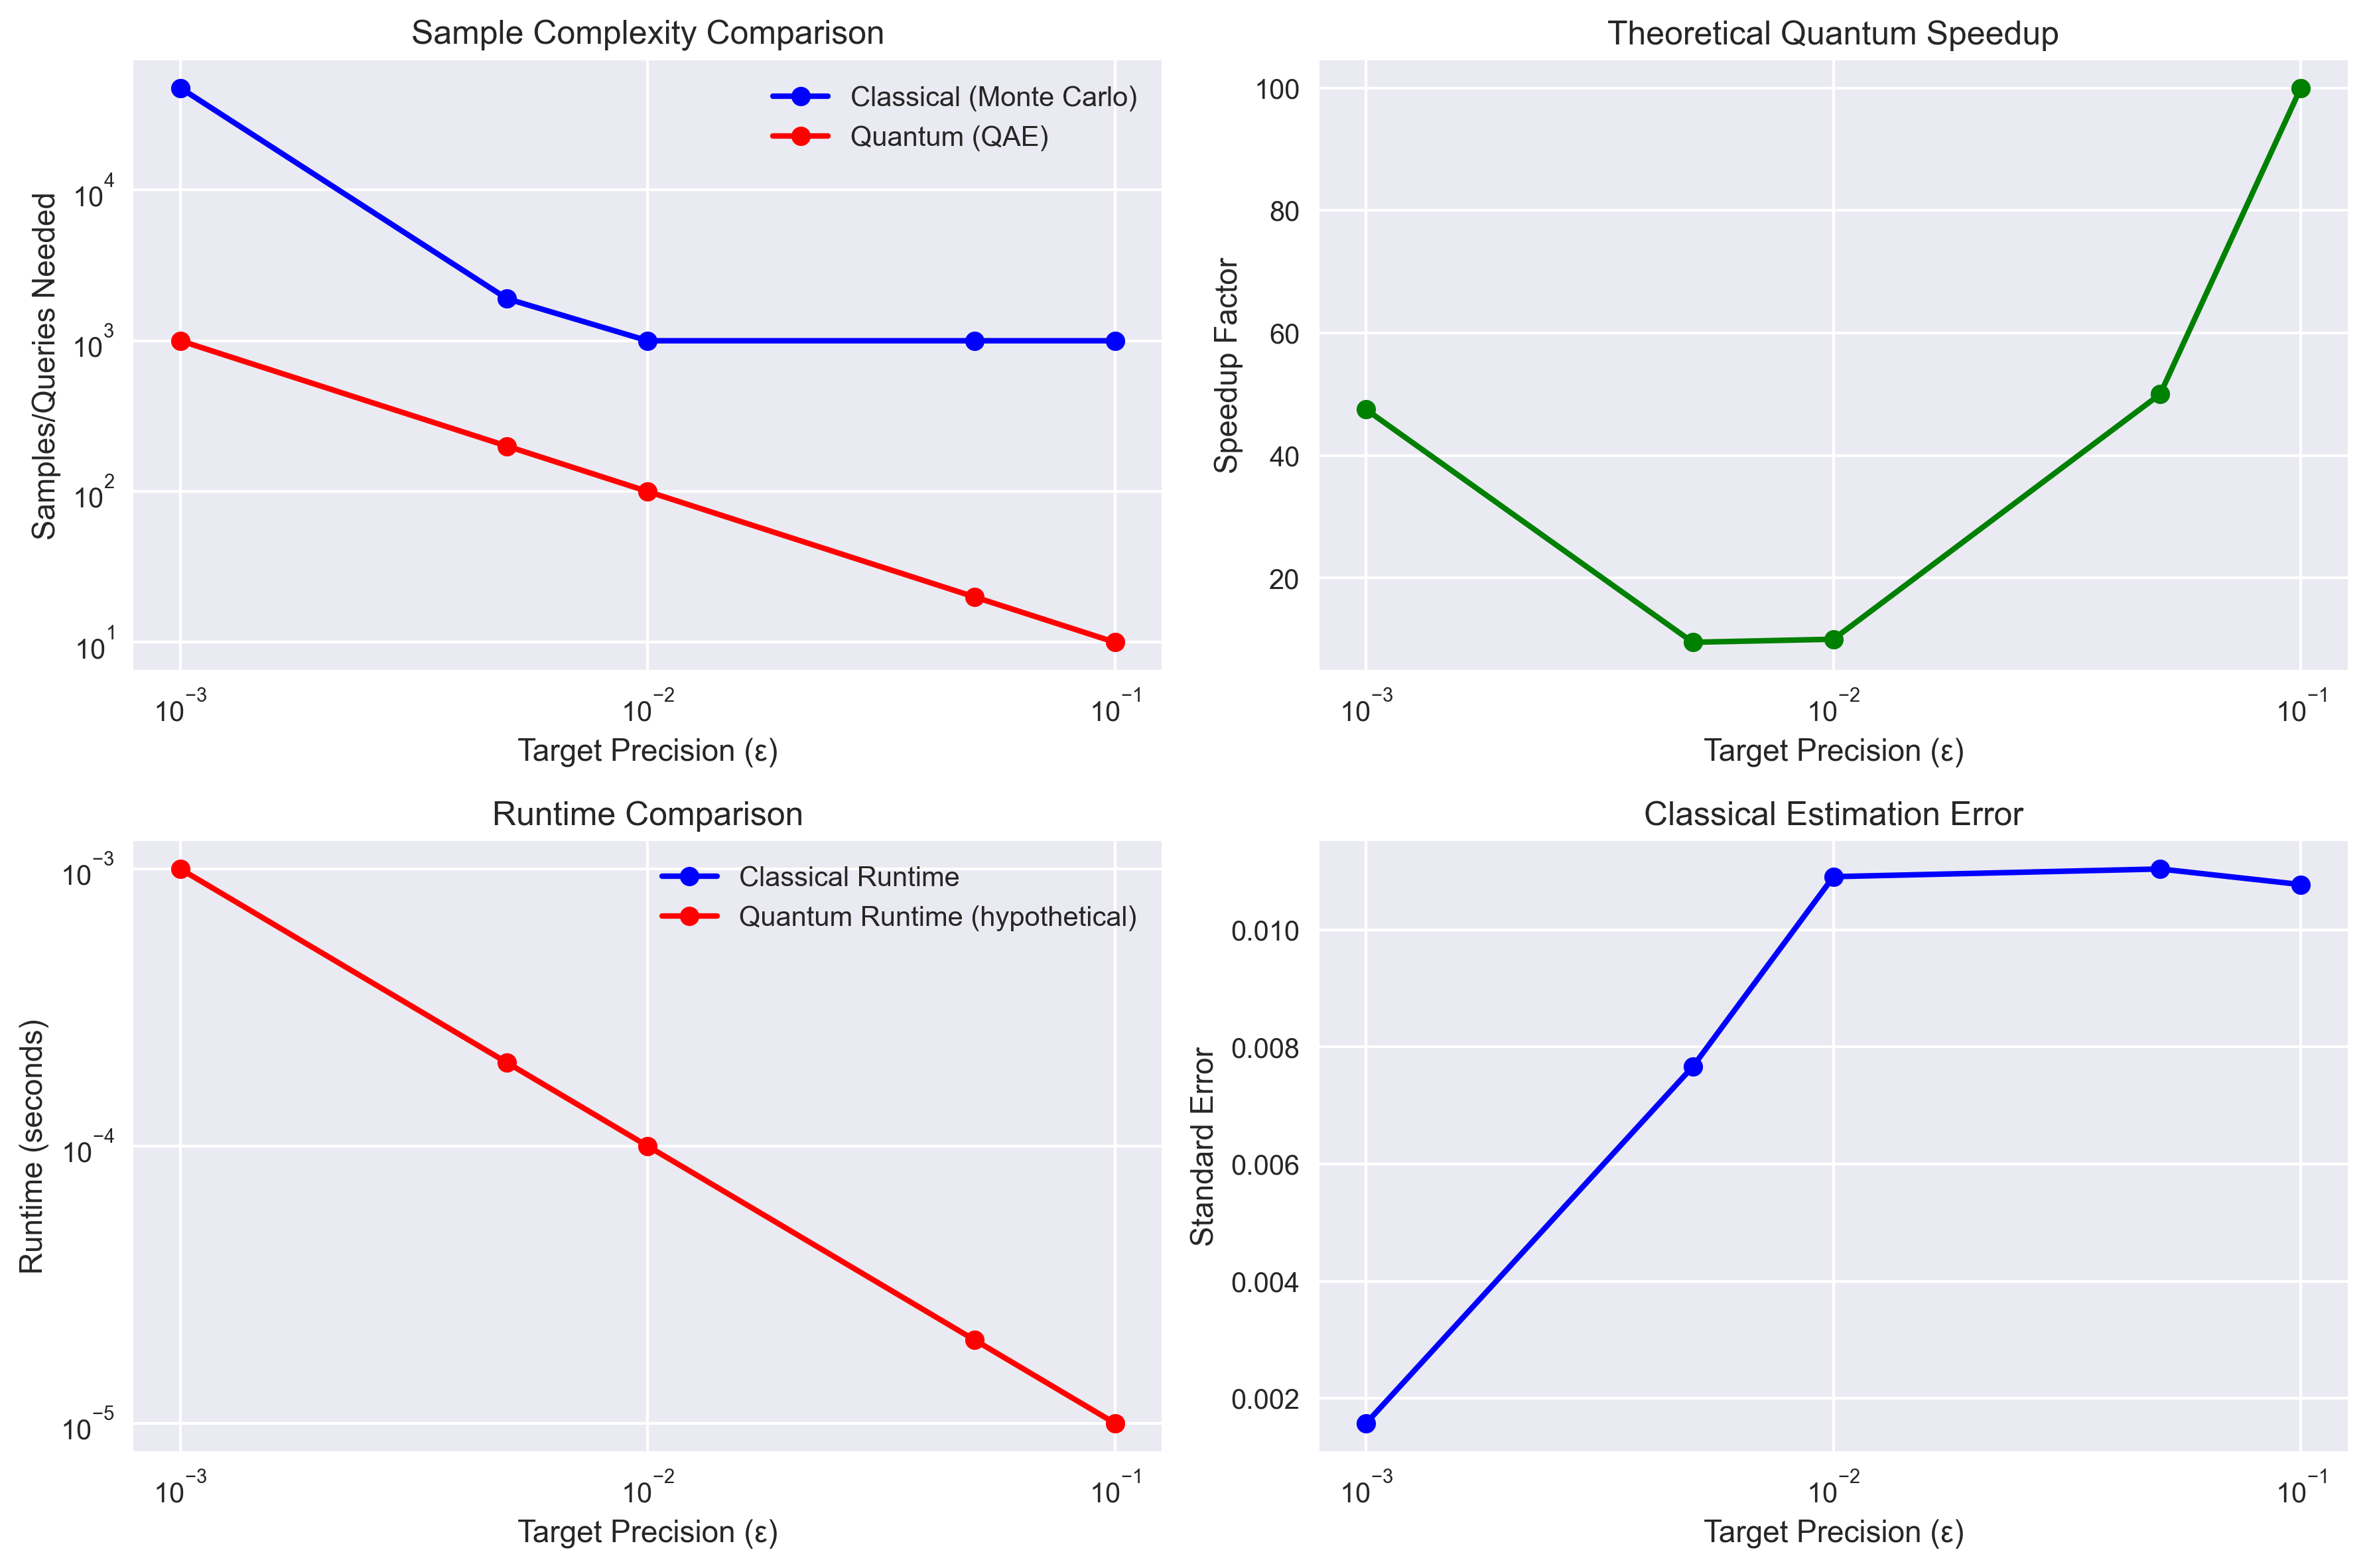
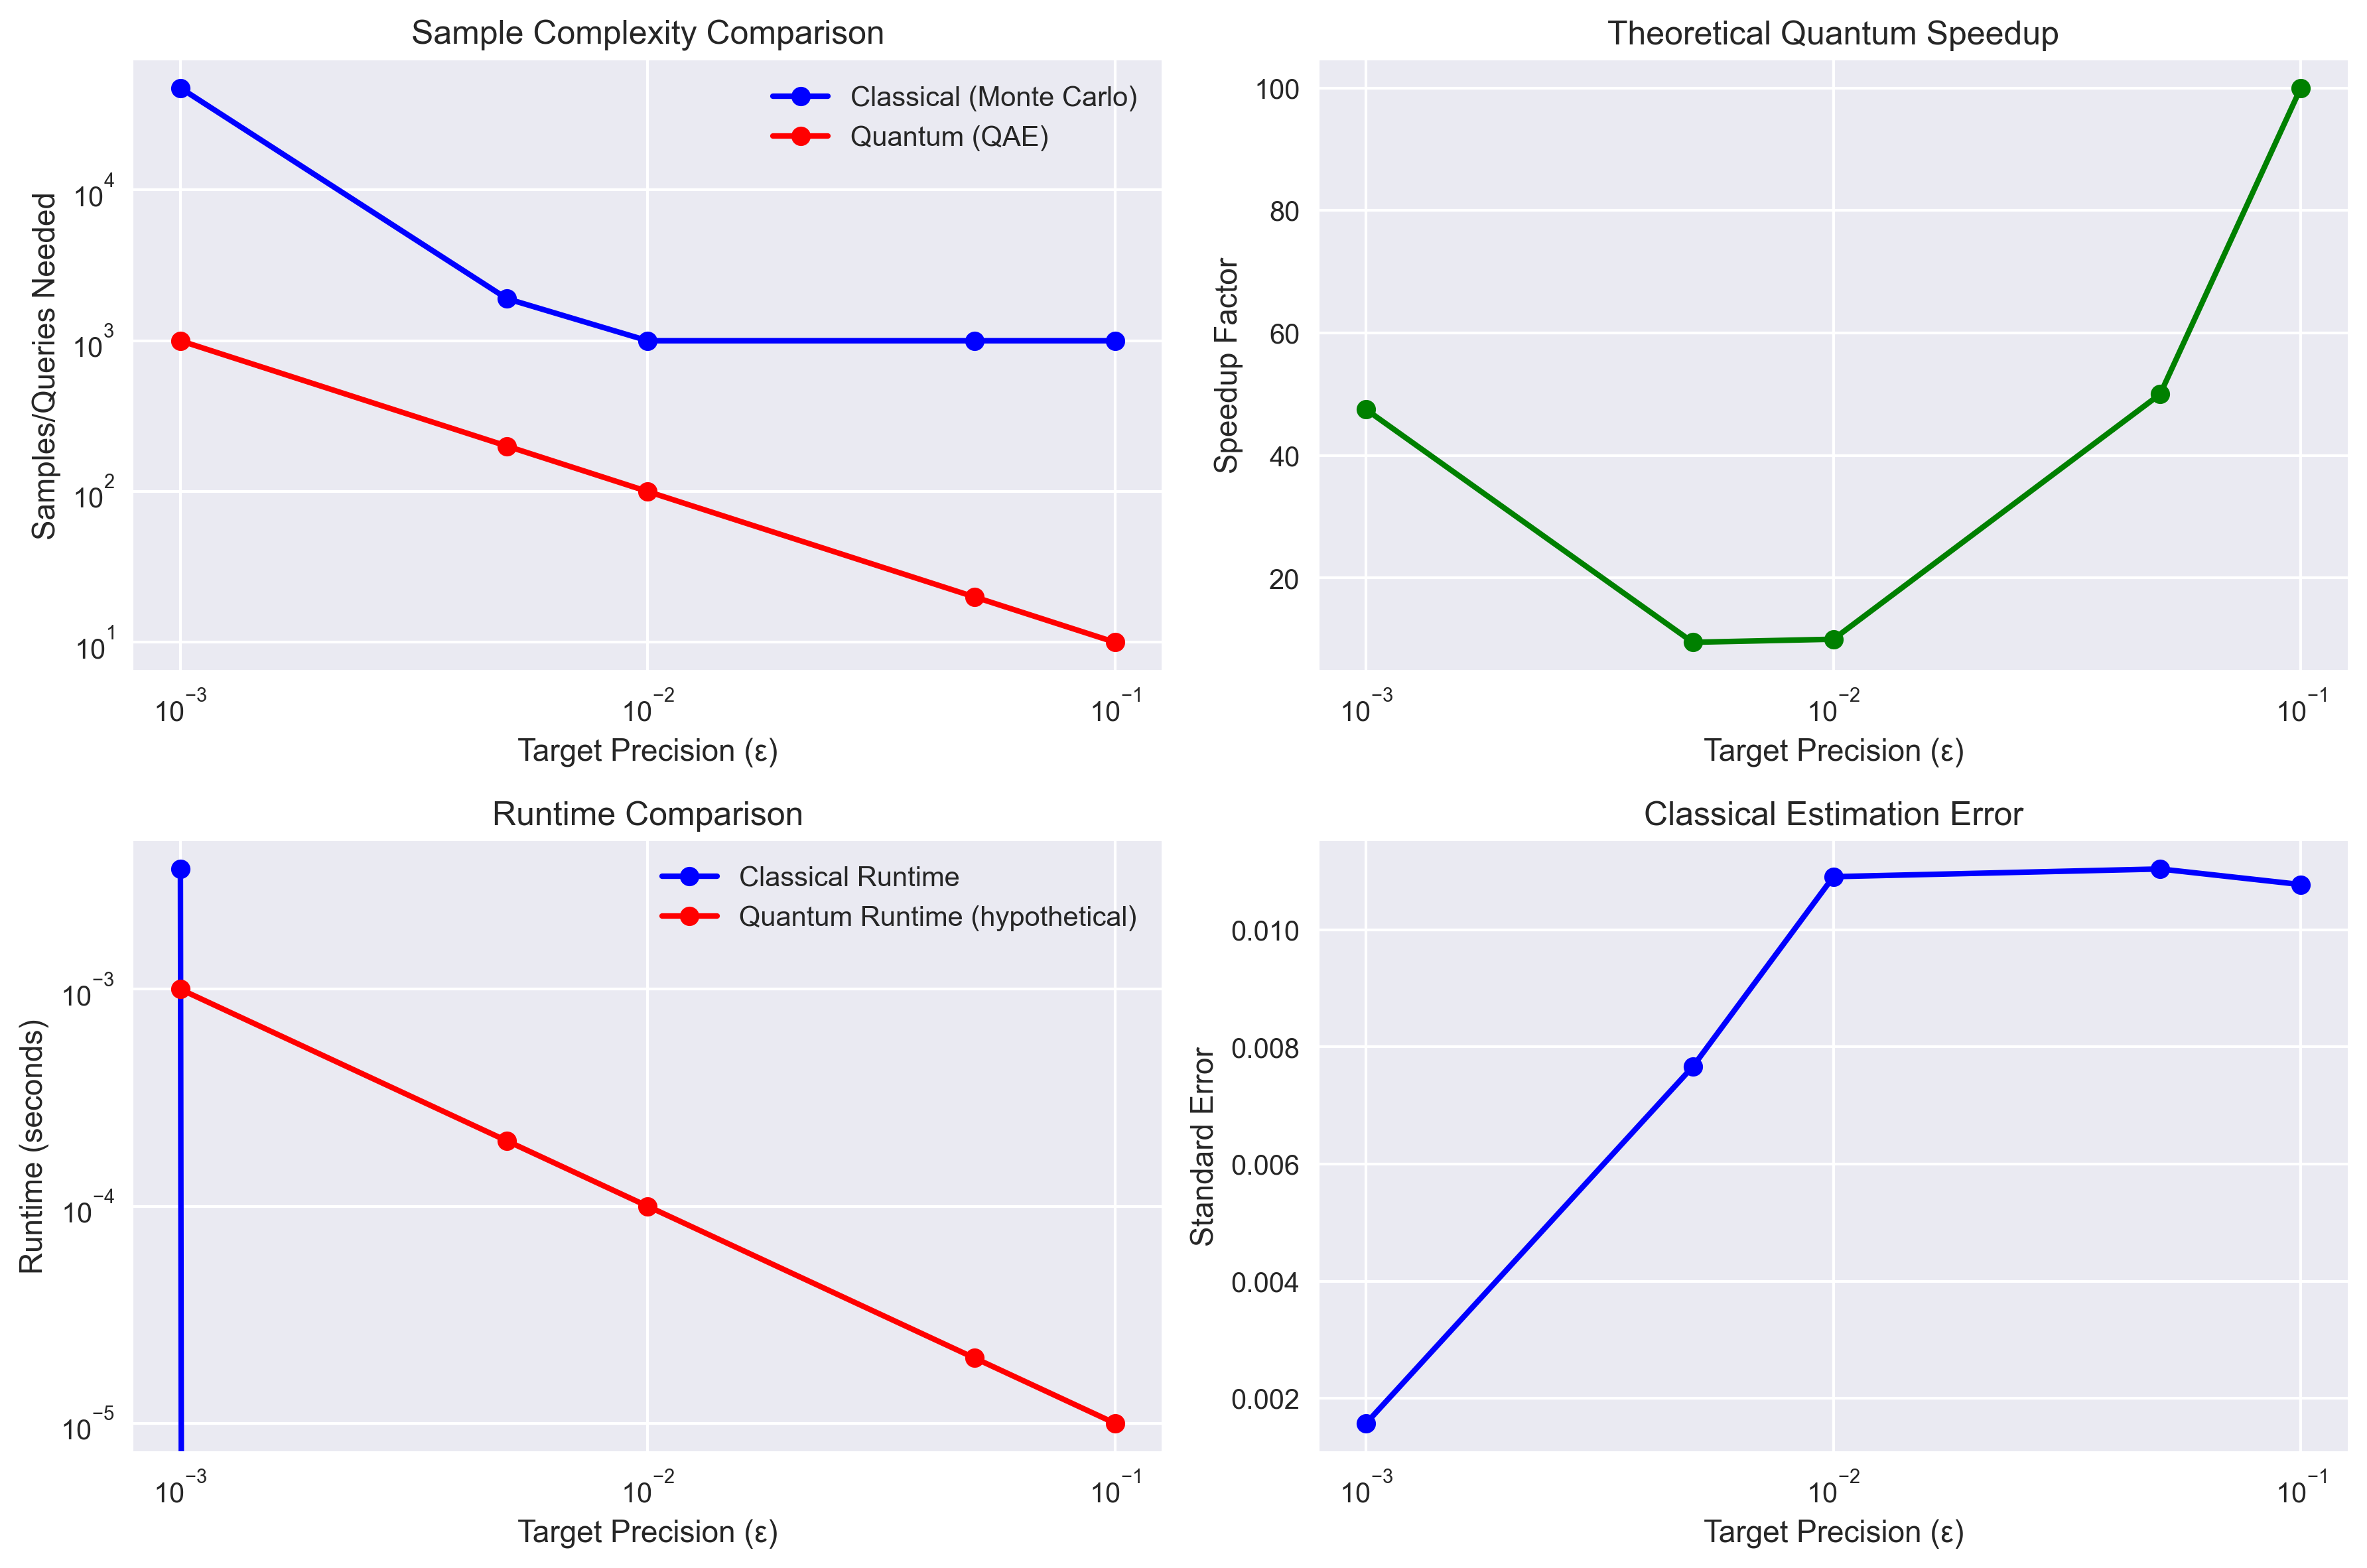
chore: sync local working state — refreshed baselines and reports
- Classical baselines re-run for problems 03, 05, 09, 15
- Precision comparison plots regenerated for 03_qae_risk
- RuntimeConfig.qs updated for 03_qae_risk
- Runnable correctness report refreshed (20/20 passing)
- Meeting preparation brief updated

diff --git a/docs/meeting-preparation-brief.md b/docs/meeting-preparation-brief.md
@@ -11,6 +11,7 @@ Financial institutions need to estimate tail risk — the probability that portf
 - **Bug Found & Fixed**: The amplitude encoding used a Lorentzian kernel instead of a true log-normal PDF. This persisted through multiple CI-passing builds because the circuit compiled and produced plausible numbers. Only systematic comparison against the classical baseline caught it — validating the framework's insistence on classical comparison at every stage.
 - **Calibration**: 3-run ensemble with bounded uncertainty. Theoretical tail probability (16.1%) matches classical Monte Carlo exactly after correction.
 - **Azure Validation**: QASM circuit validated on Quantinuum H2-1SC trapped-ion syntax checker.
+- **Live Demo (April 2, 2026)**: Fresh job `03_qae-risk-demo-meeting` submitted and succeeded on Quantinuum H2-1SC (job ID: `584a77f2`, 128 shots, 10s turnaround, $0.00 cost).
 
 ### Results
 | Metric | Classical (Monte Carlo) | Quantum (QAE) |
@@ -127,3 +128,53 @@ Our entire workflow runs on Azure. Q# compiles via .NET, circuits submit to Azur
 - **QAE requires 594K physical qubits for a problem a laptop solves in milliseconds**
 - **0 of 20 problems demonstrate quantum advantage** (this is honest, and the framework correctly identifies this)
 - **DOI: 10.5281/zenodo.19222021** — citable, reproducible, open-source
+
+---
+
+## 6. Live Demo Walkthrough (if time permits)
+
+### Option A: Quick (2 min) — Show Azure Job Completion
+```
+az quantum job show --job-id "584a77f2-1381-4001-9bdf-47baa8086c80" -o table
+```
+Shows: job name, Succeeded status, Quantinuum H2-1SC target, 10s turnaround, $0.00 cost.
+
+### Option B: Medium (5 min) — Run QAE Locally + Azure
+```bash
+# 1. Run Q# locally (shows tail probability estimation)
+cd problems/03_qae_risk
+dotnet run --project qsharp/QAERisk.csproj --configuration Release
+
+# 2. Show the QASM circuit
+cat estimates/qae_simplified_4q.qasm
+
+# 3. Show Azure job history
+az quantum job list -o table
+```
+
+### Option C: Full (10 min) — End-to-End Framework Demo
+```bash
+# 1. Show the repo structure (20 problems, standardized layout)
+ls problems/
+
+# 2. Run classical baseline
+python problems/03_qae_risk/python/classical_baseline.py
+
+# 3. Run quantum implementation
+dotnet run --project problems/03_qae_risk/qsharp/QAERisk.csproj
+
+# 4. Show Azure validation
+az quantum job list -o table | head -10
+
+# 5. Show the website
+# Open: https://wernerrall147.github.io/quantum-grand-challenges/
+
+# 6. Show the KPI report
+python tooling/reporting/stage_kpis.py
+```
+
+### Key URLs to Have Open
+- **GitHub**: https://github.com/WernerRall147/quantum-grand-challenges
+- **Website**: https://wernerrall147.github.io/quantum-grand-challenges/
+- **DOI**: https://doi.org/10.5281/zenodo.19222021
+- **Paper**: docs/paper/methodology-paper.html (open locally in browser)